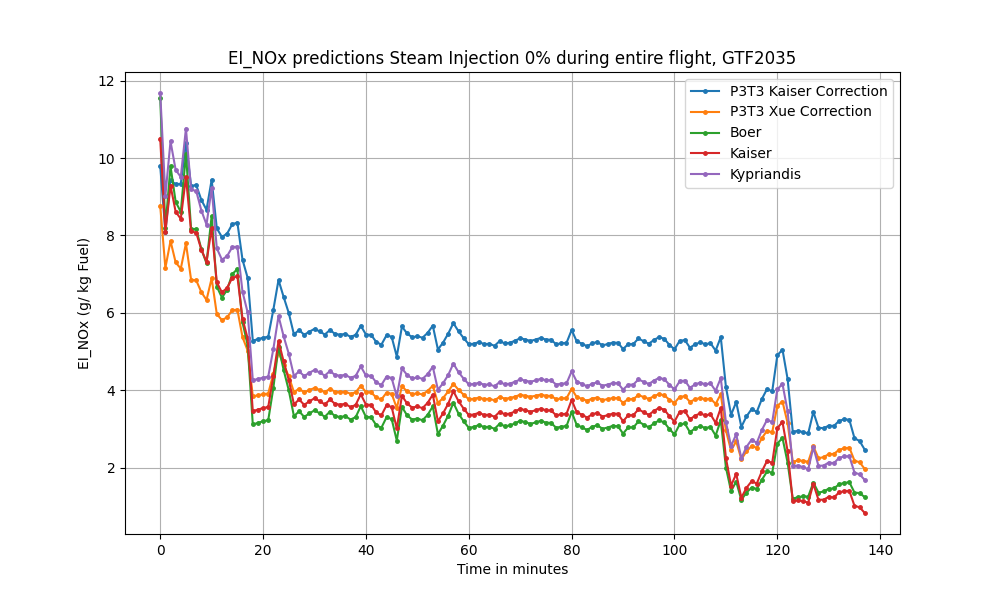
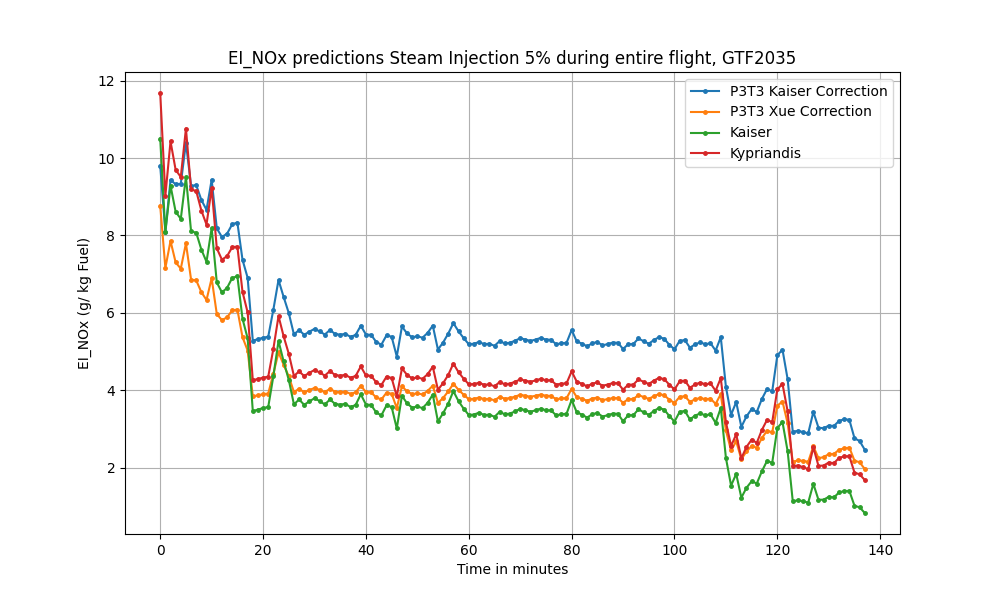
results midterm

Changed region(s): [[0.155, 0.15, 0.868, 0.87], [0.682, 0.21, 0.806, 0.3]]

diff --git a/results_wi_nox_predictions.py b/results_wi_nox_predictions.py
@@ -21,11 +21,11 @@ plt.figure(figsize=(10, 6))
 # plt.plot(df_gsp.index, df_gsp['EI_nox_py'], label='Pycontrails', linestyle='-', marker='o', markersize=2.5)
 plt.plot(df_gsp.index, df_gsp['EI_nox_p3t3'], label='P3T3 Kaiser Correction', linestyle='-', marker='o', markersize=2.5)
 plt.plot(df_gsp.index, df_gsp['EI_nox_p3t3_xue'], label='P3T3 Xue Correction', linestyle='-', marker='o', markersize=2.5)
-plt.plot(df_gsp.index, df_gsp['EI_nox_boer'], label='Boer', linestyle='-', marker='o', markersize=2.5)
+# plt.plot(df_gsp.index, df_gsp['EI_nox_boer'], label='Boer', linestyle='-', marker='o', markersize=2.5)
 plt.plot(df_gsp.index, df_gsp['EI_nox_kaiser'], label='Kaiser', linestyle='-', marker='o', markersize=2.5)
 plt.plot(df_gsp.index, df_gsp['EI_nox_kypriandis'], label='Kypriandis', linestyle='-', marker='o', markersize=2.5)
 
-plt.title('EI_NOx predictions Steam Injection 0% during entire flight, GTF2035')
+plt.title('EI_NOx predictions Steam Injection 5% during entire flight, GTF2035')
 plt.xlabel('Time in minutes')
 plt.ylabel('EI_NOx (g/ kg Fuel)')
 plt.legend()
